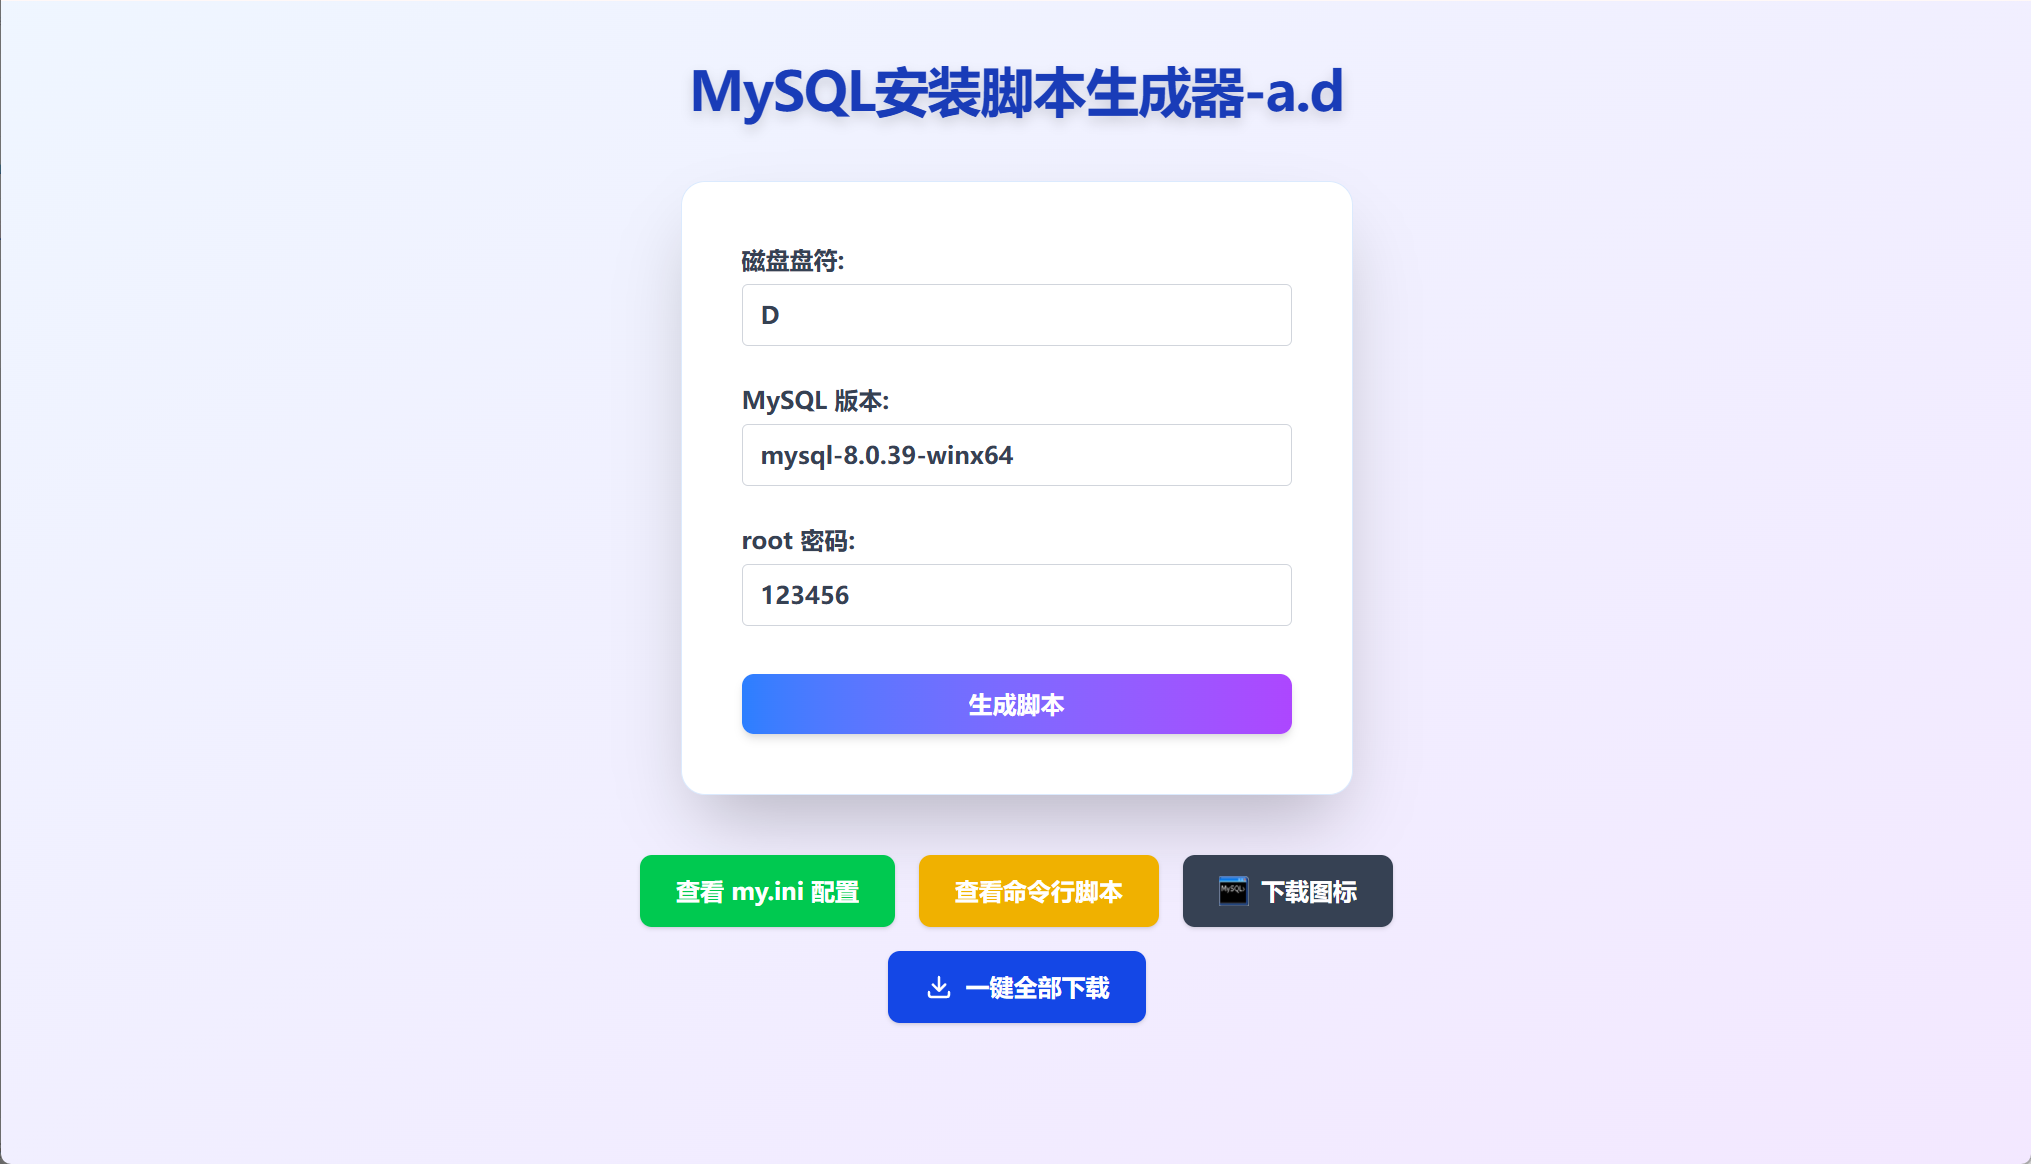
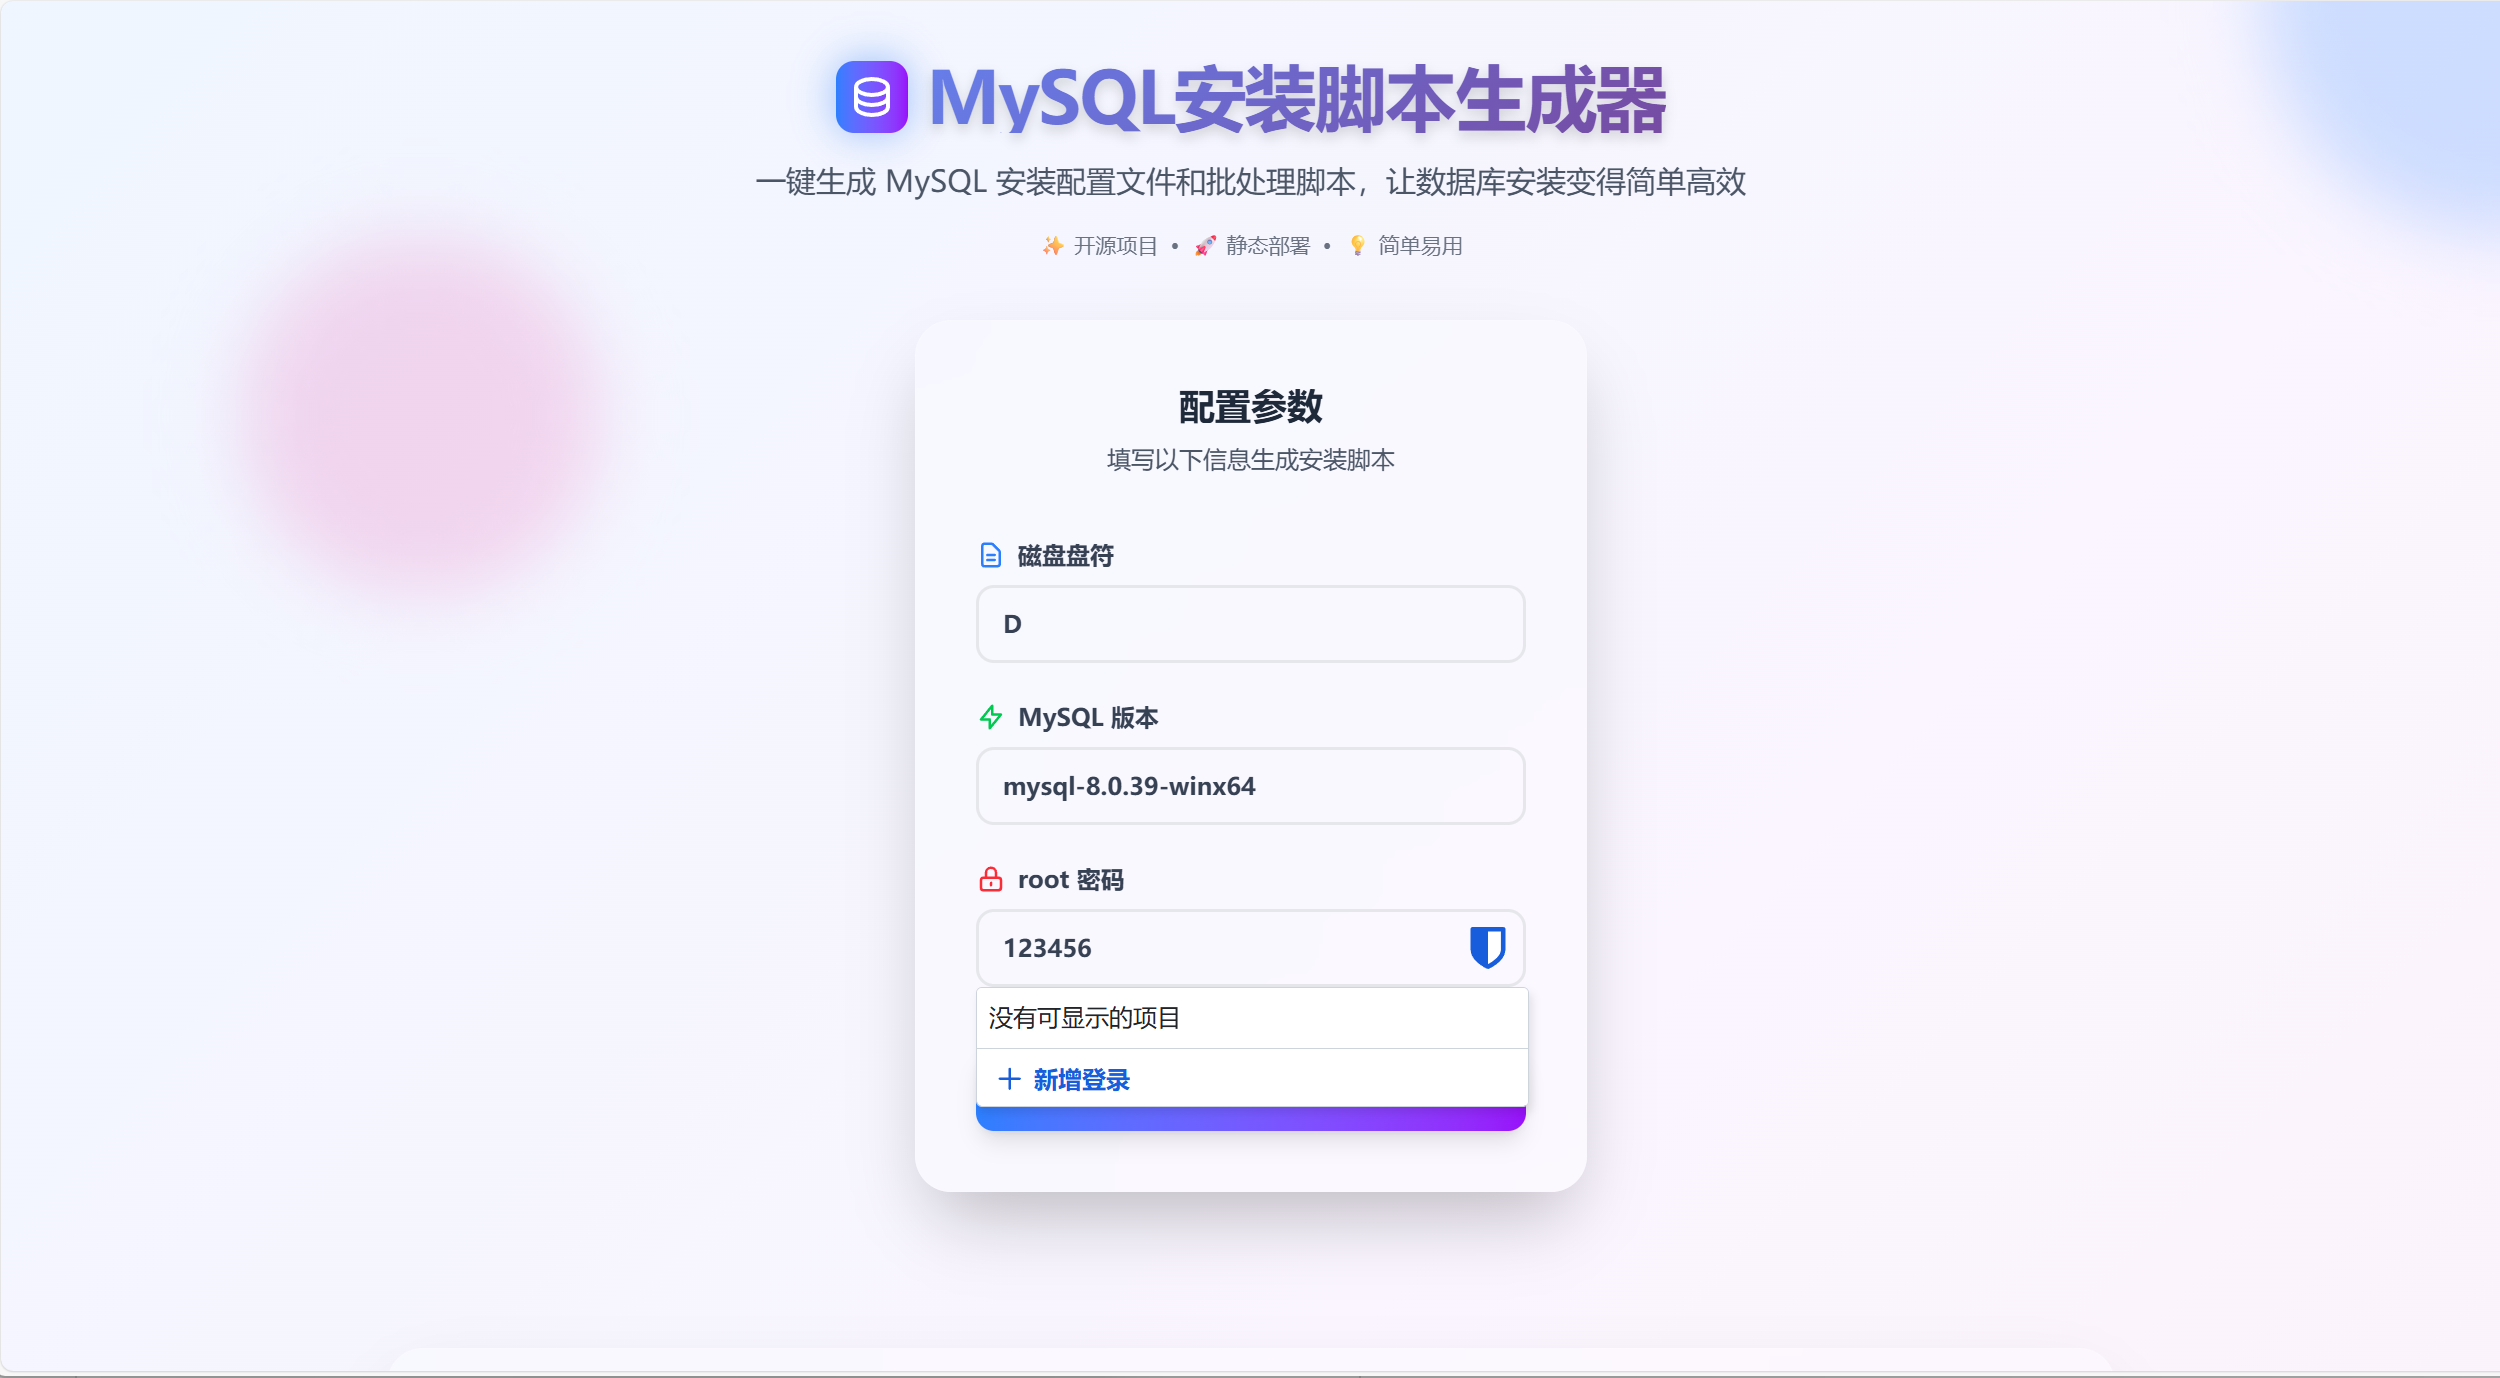
增加介绍

diff --git a/README.md b/README.md
@@ -1,30 +1,31 @@
+# MySQL 安装脚本生成器
 
+[在线演示地址（Demo）](http://mysql.aiheadn.cn/)
 
-# MySQL 连接工具
+本项目是一个简单易用的 MySQL 安装脚本生成器，支持多种 MySQL 版本，一键生成配置文件和批处理安装脚本，让数据库安装部署变得简单高效。
 
-## 项目结构
-- `img/mysqlico.ico`：项目图标文件。
-- `index.html`：主页面文件，包含连接数据库的表单界面。
-- `templates/myini_templates.js`：配置模板文件，用于生成 MySQL 配置。
-- `templates/shortcut_bat.js`：快捷脚本模板文件，用于生成快捷方式或批处理脚本。
+## 项目亮点
+- **快速部署**：支持 MySQL 5.5-8.0 版本，一键生成安装脚本，无需手动配置。
+- **简单易用**：纯前端实现，无需安装，打开即用，支持多种安装参数自定义。
+- **安全可靠**：所有数据本地生成，数据不上传，保护您的隐私和配置信息。
+- **支持生成配置文件和快捷方式脚本**。
 
-## 功能特点
-- 提供直观的界面用于输入 MySQL 连接参数。
-- 支持生成 my.ini 配置文件和批处理脚本（.bat）。
-- 支持多个 MySQL 版本，包括 5.5、5.6、5.7 和 8.0。
-- 提供图标下载功能，用于生成的脚本和配置文件。
+## 主要界面
+
+### 配置参数填写
+![配置参数填写界面](img/1.png)
+
+### 项目信息与快速开始
+![项目信息与快速开始界面](img/2.png)
 
 ## 使用方法
 1. 打开 `index.html` 文件以访问连接界面。
-2. 在表单中输入 MySQL 数据库的连接信息，例如版本、密码和磁盘盘符。
-3. 使用 `myini_templates.js` 生成 my.ini 配置文件。
-4. 使用 `shortcut_bat.js` 生成批处理脚本。
-5. 下载生成的配置文件和脚本，或一键下载包含所有文件的 zip 包。
+2. 在表单中输入 MySQL 配置的相关信息。
+3. 使用 `myini_templates.js` 和 `shortcut_bat.js` 来生成所需的配置和快捷方式脚本。
 
 ## 注意事项
 - 确保在支持的环境中运行，可能需要本地服务器支持。
-- 修改模板文件以适配您的实际数据库配置。
-- 输入格式需正确，例如 MySQL 版本号格式应为 `mysql-X.X.XX-winx64`。
+- 请根据实际需求修改模板文件以适配您的数据库配置。
 
 ## 许可证
-本项目采用 MIT 许可证。有关更多详情，请查看项目的许可文件。
+该项目遵循 MIT 许可证（若实际许可证不同，请根据项目实际情况调整）。
